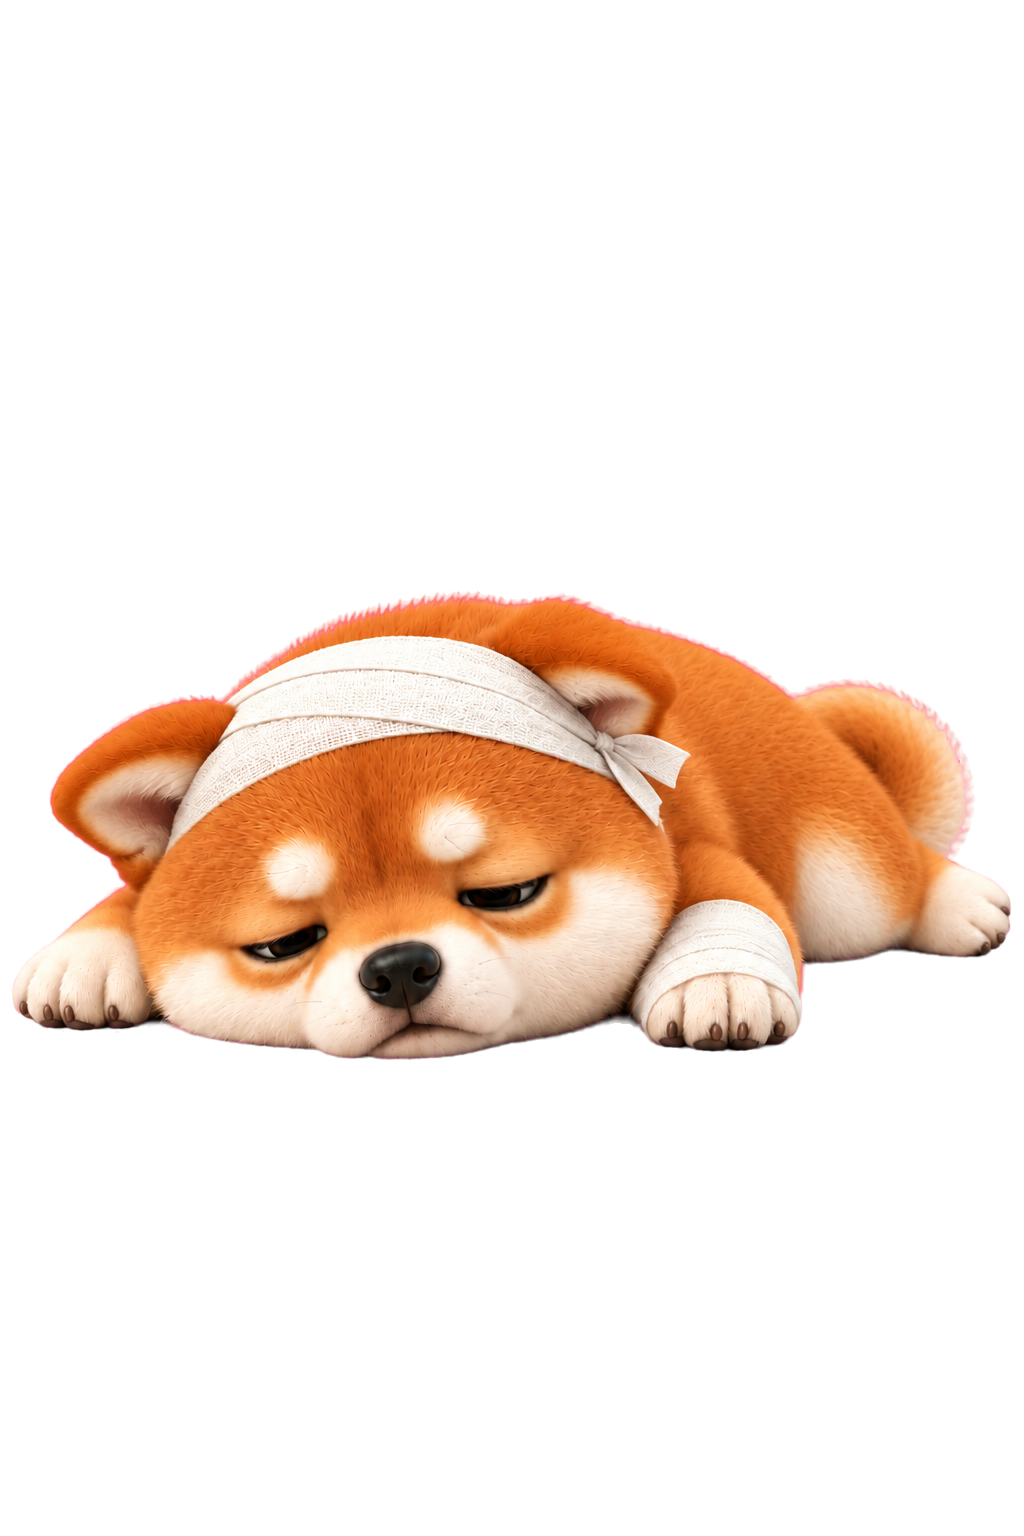
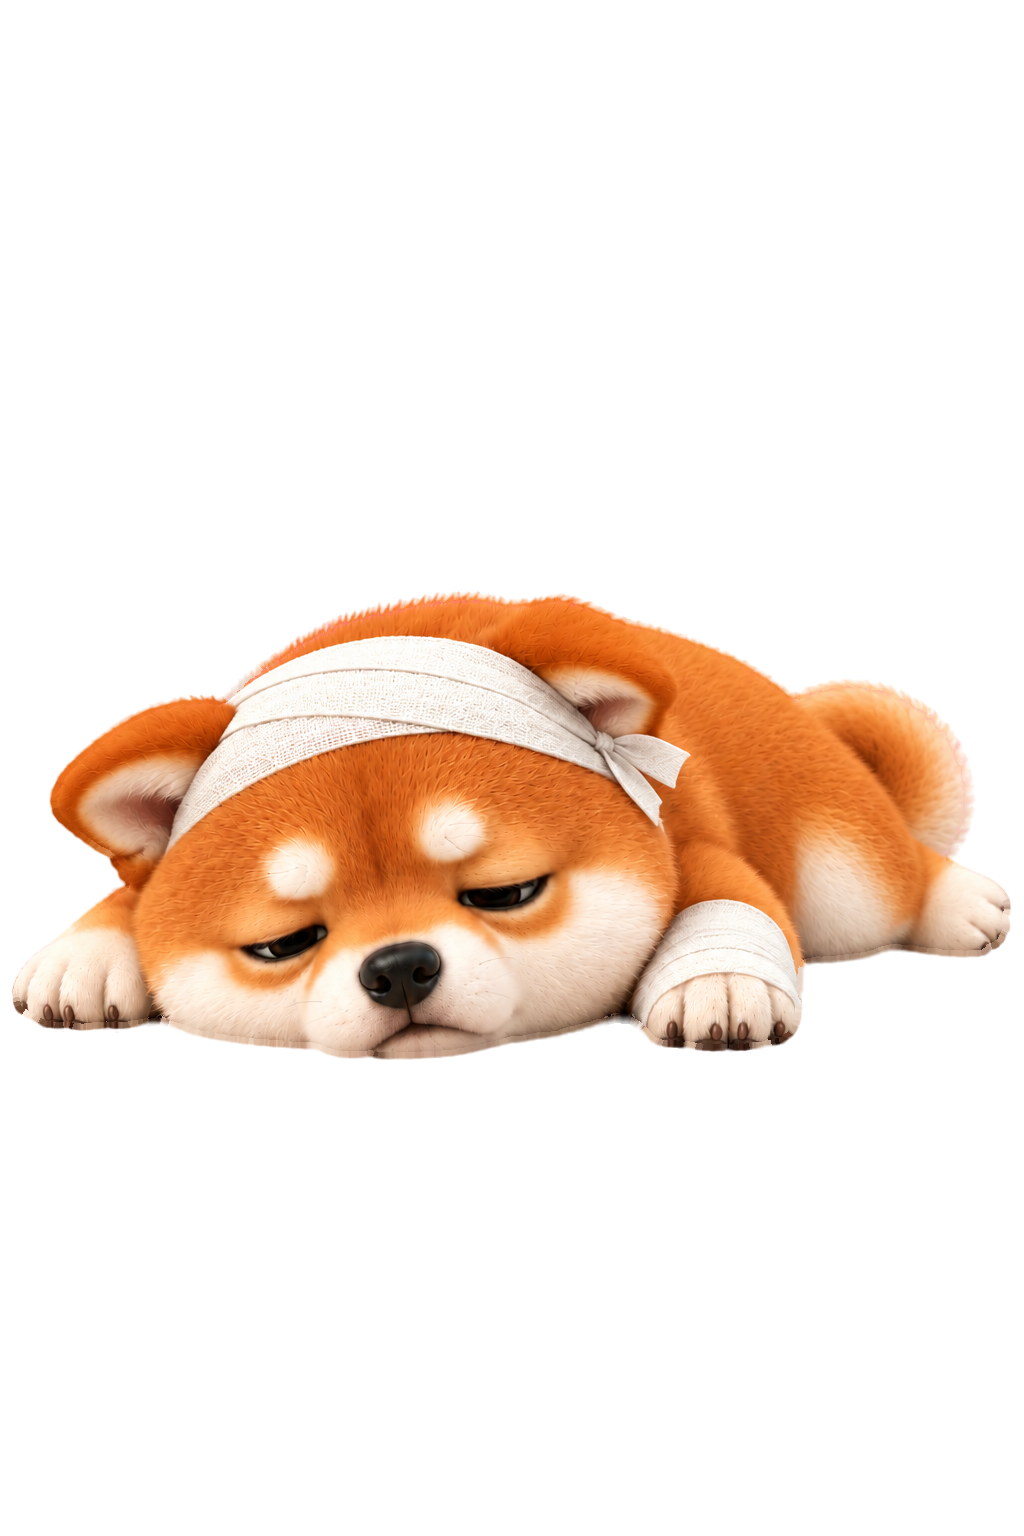
적시바 아픔·붕대 v2 교체, 재료달리기 배경 v2 파일·config 등록

diff --git a/preview/start-room-3d/config.js b/preview/start-room-3d/config.js
@@ -58,7 +58,7 @@ export const CFG={
   decorScores:{'tea-table':null,zabuton:null,stairs:null,counter:null},themeLogos:{tatami:'assets/drive/ui/ui-theme-logo-tatami.png',fuji:null,bamboo:null},themeLogoSize:[256,128],luckyBoxArt:'assets/drive/ui/ui-lucky-box.png',luckyBoxArtSize:[512,512], // 행운 상자 = interior 1Fgl1U8v… ; 다다미 logo (256×128) pending
    // logo/lucky box art pending (empty frames)
   luckyBoxPrices:{dia:null,coin:null,heart:null}}, // UNSET decor/logo art/lucky box prices pending 똑또기
- run:{playEnergy:1,skipEnergy:2,startEnergy:null,startLevel:null,energyCap:null,regenSec:null,bonusPerShiba:null,upgrades:null,scoreToReward:null}, // UNSET energy/bonus/upgrades/rewards pending 똑또기
+ run:{bg:'assets/drive/run/bg-ingredient-run-v2.png', /* 재료달리기_배경_v2.png 1080×1920 위아래 반복, 화면 미구현 */ playEnergy:1,skipEnergy:2,startEnergy:null,startLevel:null,energyCap:null,regenSec:null,bonusPerShiba:null,upgrades:null,scoreToReward:null}, // UNSET energy/bonus/upgrades/rewards pending 똑또기
 
  ledger:{periodMs:86400000,dayOffsetMs:32400000,historyDays:7,includeDiamonds:false,openFromPill:true,openFromStore:true}, // §15 starting value 똑또기 2026-10-14, pending user batch confirm: KST midnight day, 7 days kept, 멍코인만, opened from 멍코인 pill and 가게 tab
  saveKey:'shibaCafe.save.v3',saveVersion:3, // EXEMPT: save schema version (engine metadata)

diff --git a/start-room-3d/config.js b/start-room-3d/config.js
@@ -58,7 +58,7 @@ export const CFG={
   decorScores:{'tea-table':null,zabuton:null,stairs:null,counter:null},themeLogos:{tatami:'assets/drive/ui/ui-theme-logo-tatami.png',fuji:null,bamboo:null},themeLogoSize:[256,128],luckyBoxArt:'assets/drive/ui/ui-lucky-box.png',luckyBoxArtSize:[512,512], // 행운 상자 = interior 1Fgl1U8v… ; 다다미 logo (256×128) pending
    // logo/lucky box art pending (empty frames)
   luckyBoxPrices:{dia:null,coin:null,heart:null}}, // UNSET decor/logo art/lucky box prices pending 똑또기
- run:{playEnergy:1,skipEnergy:2,startEnergy:null,startLevel:null,energyCap:null,regenSec:null,bonusPerShiba:null,upgrades:null,scoreToReward:null}, // UNSET energy/bonus/upgrades/rewards pending 똑또기
+ run:{bg:'assets/drive/run/bg-ingredient-run-v2.png', /* 재료달리기_배경_v2.png 1080×1920 위아래 반복, 화면 미구현 */ playEnergy:1,skipEnergy:2,startEnergy:null,startLevel:null,energyCap:null,regenSec:null,bonusPerShiba:null,upgrades:null,scoreToReward:null}, // UNSET energy/bonus/upgrades/rewards pending 똑또기
 
  ledger:{periodMs:86400000,dayOffsetMs:32400000,historyDays:7,includeDiamonds:false,openFromPill:true,openFromStore:true}, // §15 starting value 똑또기 2026-10-14, pending user batch confirm: KST midnight day, 7 days kept, 멍코인만, opened from 멍코인 pill and 가게 tab
  saveKey:'shibaCafe.save.v3',saveVersion:3, // EXEMPT: save schema version (engine metadata)

diff --git a/preview/start-room-3d/assets/drive/MAP.md b/preview/start-room-3d/assets/drive/MAP.md
@@ -291,7 +291,8 @@ Manager v2 frames replace the v1 files at the same local paths (v1 rows above ar
 | cooking/ing-sweet-potato.png | Drive 1DQIArEVeZ83itFZtOqxhQYWv5DLpOHi_ (재료_고구마.png (interior), unmodified) | sha256 a1c1373cf1028784778eed1e445dffd1c014c183d6cb0b7b33d7f8aea87ba07f | 요리 제작 재료 |
 | cooking/ing-chicken.png | Drive 1wu9GPccCnujyU5dOjq4yS3h9nBLYOX6x (재료_닭고기.png, unmodified) | sha256 868ae8a8d78290ba716f039a6eaf6c8c40d9207e6735ce6ef68b86b7738598a3 | 요리 제작 재료 |
 | bg-hospital-clinic.png | Drive 10OB6TzgCt79ClTFmrV769zimnUc5IjQ8 (배경_병원진료실.png, 1080×1920, unmodified) | sha256 c93572464743aa4e4eee8c46c0763f696ef959f32db24b4cf673417b1a478b7c | 병원 진료실 배경 (병원 화면에 연결) |
-| hospital/sick-red-bandage.png | Drive 19xLjdPp_98d5sqpPGgCB3NWfDiy7iqdE (interior 시바_적시바_아픔_붕대.png, 1024×1536, unmodified) | sha256 ae37e5635911a909df7309fec1d92da93d81e291951985387ce468905484354f | 병원: 적시바 아픔·붕대 포즈 |
+| hospital/sick-red-bandage.png | Drive 10e_1eRfaUGjp4xFpmvtrzph8YaXEsvUT (interior 시바_적시바_아픔_붕대_v2.png, 1024×1536, unmodified; replaces 19xLjdPp_98d5sqpPGgCB3NWfDiy7iqdE) | sha256 869009d4955b3a17b1b75d25c180f0950988f49c75d8413f931e7bd44c3cb4d7 | 병원: 적시바 아픔·붕대 포즈 v2 |
+| run/bg-ingredient-run-v2.png | Drive 1YwqBiShlWPgf0H6qHPdBqac2AFVgQ0-u (interior 재료달리기_배경_v2.png, 1080×1920, vertical tile, unmodified) | sha256 a29397b8ff7b62c87d7aaddefb831b2d8771c660d427a690a58503f14f530d63 | 재료 달리기: 반복 배경 (화면 미구현) |
 | hospital/sick-sesame-bandage.png | Drive 1iCx3q540uXjuLJW4pGKIOx1T6DR9Z4ZU (interior 시바_참깨_아픔_붕대.png, 1024×1536, unmodified) | sha256 340228e929bf19589c6005069d2ddd1cea5949e2f4be51a9c03b2717f92056ab | 병원: 참깨 아픔·붕대 포즈 |
 | hospital/sick-kuro-bandage.png | Drive 1MJxTVuC86P_hQRb6cW4WSqSIeZpCI2N3 (interior 시바_쿠로_아픔_붕대.png, 1024×1536, unmodified) | sha256 3dd6b4a96ecbc10d8524b0f2f07deec05570cb711712f813f766d4545d9b429f | 병원: 쿠로 아픔·붕대 포즈 |
 | hospital/sick-white-bandage.png | Drive 11spBvfH_HM3lZHdT-T18TiqF94p3sOSK (interior 시바_백시바_아픔_붕대.png, 1024×1536, unmodified) | sha256 f606325df71edcd0342b4d798bb30513e2d664e8a66a5d6828dc612f76b01735 | 병원: 백시바 아픔·붕대 포즈 |

diff --git a/start-room-3d/assets/drive/MAP.md b/start-room-3d/assets/drive/MAP.md
@@ -291,7 +291,8 @@ Manager v2 frames replace the v1 files at the same local paths (v1 rows above ar
 | cooking/ing-sweet-potato.png | Drive 1DQIArEVeZ83itFZtOqxhQYWv5DLpOHi_ (재료_고구마.png (interior), unmodified) | sha256 a1c1373cf1028784778eed1e445dffd1c014c183d6cb0b7b33d7f8aea87ba07f | 요리 제작 재료 |
 | cooking/ing-chicken.png | Drive 1wu9GPccCnujyU5dOjq4yS3h9nBLYOX6x (재료_닭고기.png, unmodified) | sha256 868ae8a8d78290ba716f039a6eaf6c8c40d9207e6735ce6ef68b86b7738598a3 | 요리 제작 재료 |
 | bg-hospital-clinic.png | Drive 10OB6TzgCt79ClTFmrV769zimnUc5IjQ8 (배경_병원진료실.png, 1080×1920, unmodified) | sha256 c93572464743aa4e4eee8c46c0763f696ef959f32db24b4cf673417b1a478b7c | 병원 진료실 배경 (병원 화면에 연결) |
-| hospital/sick-red-bandage.png | Drive 19xLjdPp_98d5sqpPGgCB3NWfDiy7iqdE (interior 시바_적시바_아픔_붕대.png, 1024×1536, unmodified) | sha256 ae37e5635911a909df7309fec1d92da93d81e291951985387ce468905484354f | 병원: 적시바 아픔·붕대 포즈 |
+| hospital/sick-red-bandage.png | Drive 10e_1eRfaUGjp4xFpmvtrzph8YaXEsvUT (interior 시바_적시바_아픔_붕대_v2.png, 1024×1536, unmodified; replaces 19xLjdPp_98d5sqpPGgCB3NWfDiy7iqdE) | sha256 869009d4955b3a17b1b75d25c180f0950988f49c75d8413f931e7bd44c3cb4d7 | 병원: 적시바 아픔·붕대 포즈 v2 |
+| run/bg-ingredient-run-v2.png | Drive 1YwqBiShlWPgf0H6qHPdBqac2AFVgQ0-u (interior 재료달리기_배경_v2.png, 1080×1920, vertical tile, unmodified) | sha256 a29397b8ff7b62c87d7aaddefb831b2d8771c660d427a690a58503f14f530d63 | 재료 달리기: 반복 배경 (화면 미구현) |
 | hospital/sick-sesame-bandage.png | Drive 1iCx3q540uXjuLJW4pGKIOx1T6DR9Z4ZU (interior 시바_참깨_아픔_붕대.png, 1024×1536, unmodified) | sha256 340228e929bf19589c6005069d2ddd1cea5949e2f4be51a9c03b2717f92056ab | 병원: 참깨 아픔·붕대 포즈 |
 | hospital/sick-kuro-bandage.png | Drive 1MJxTVuC86P_hQRb6cW4WSqSIeZpCI2N3 (interior 시바_쿠로_아픔_붕대.png, 1024×1536, unmodified) | sha256 3dd6b4a96ecbc10d8524b0f2f07deec05570cb711712f813f766d4545d9b429f | 병원: 쿠로 아픔·붕대 포즈 |
 | hospital/sick-white-bandage.png | Drive 11spBvfH_HM3lZHdT-T18TiqF94p3sOSK (interior 시바_백시바_아픔_붕대.png, 1024×1536, unmodified) | sha256 f606325df71edcd0342b4d798bb30513e2d664e8a66a5d6828dc612f76b01735 | 병원: 백시바 아픔·붕대 포즈 |
